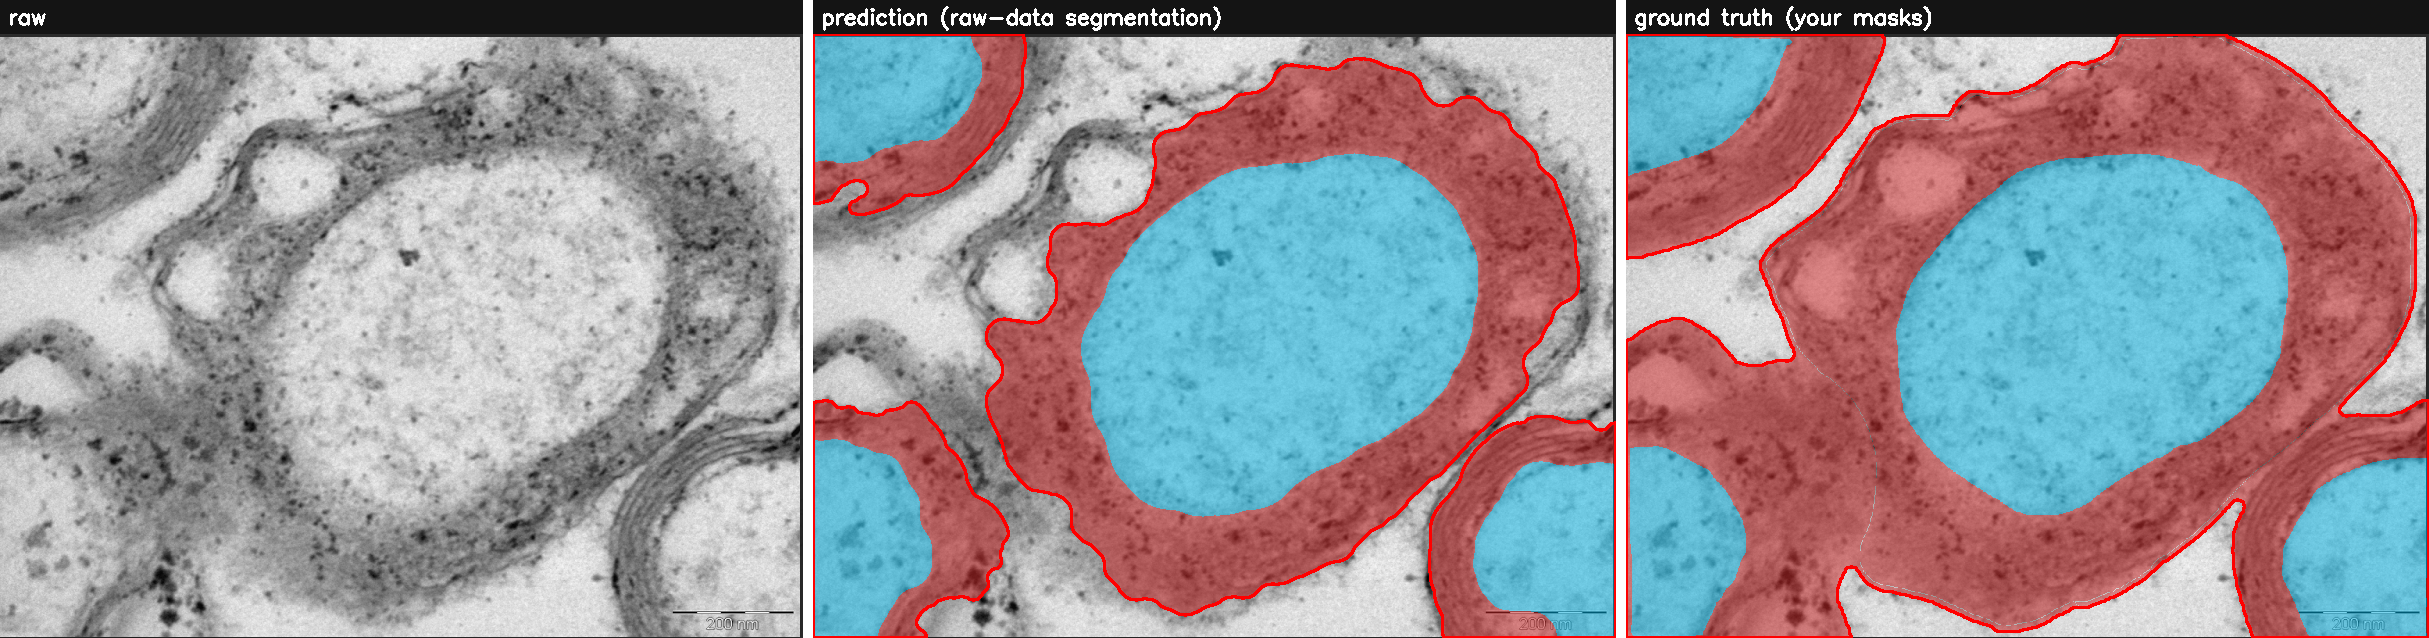
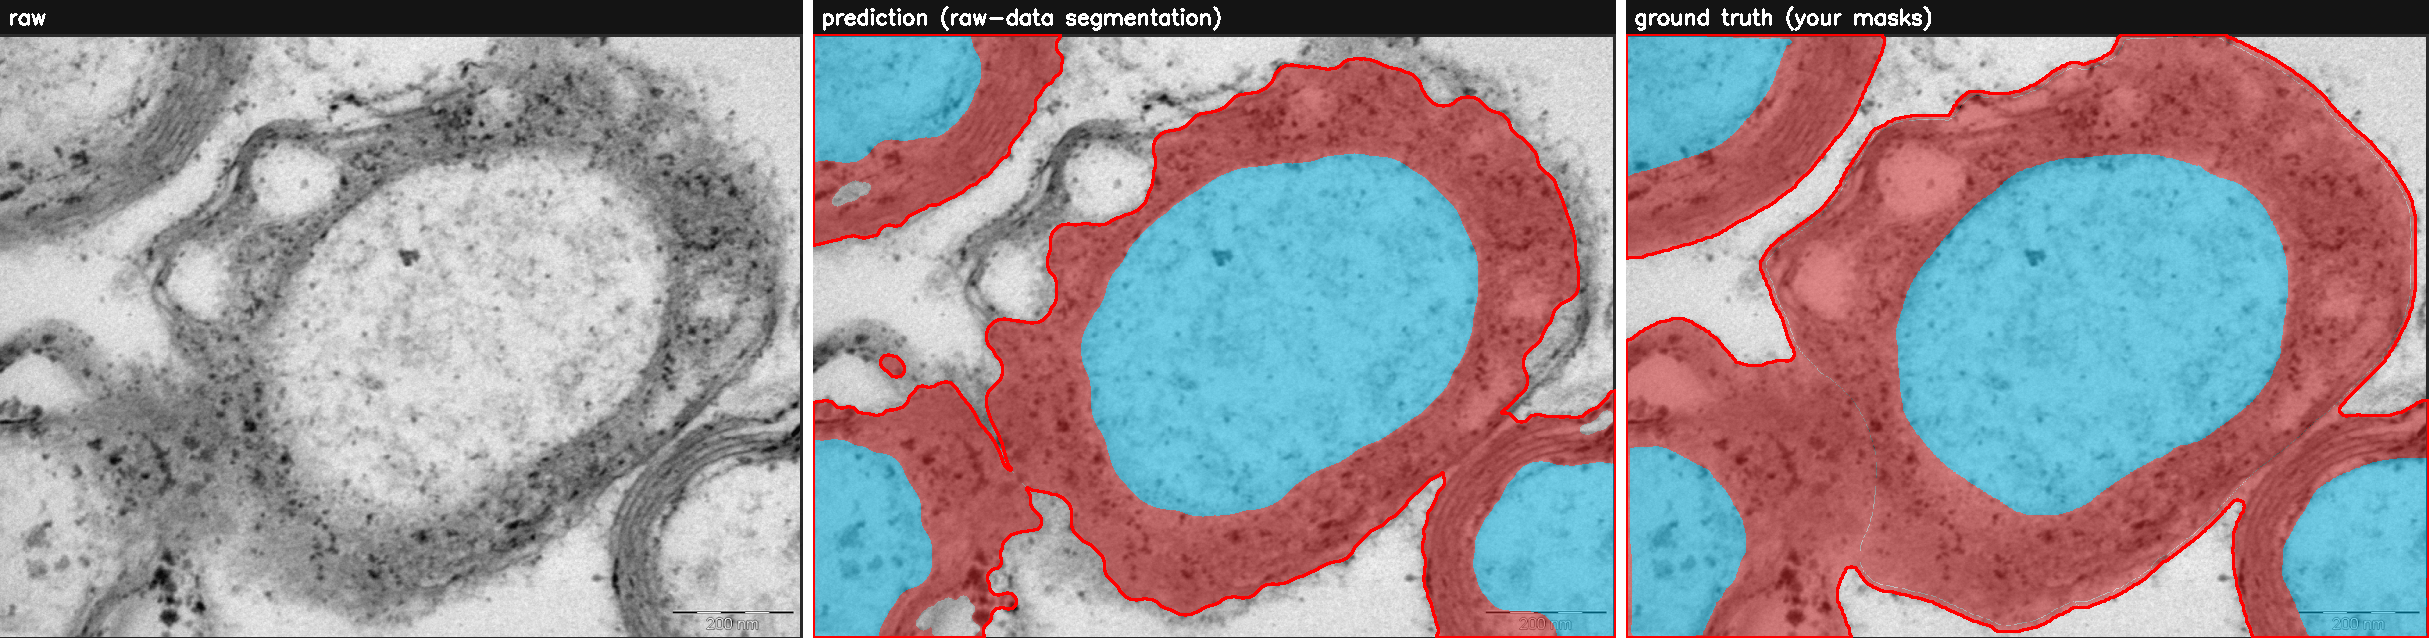
Widen small-axon myelin with an absolute band floor
Sample 1 axon #1 had myelin ~half the traced width (ratio 0.69 vs 1.55): the
radial cap myelin_band*r is too small for a small axon with proportionally thick
myelin. Add myelin_band_floor=80px: the band is max(myelin_band*r, floor), so
small axons get a wider band while large axons (already above the floor) are
untouched. Resolves the recurring small-vs-large tension with no tradeoff.

sample_01 #1 myelin/axon ratio 0.69 -> 1.15; sample_01 myelin IoU 0.58 -> 0.65,
fibre 0.78 -> 0.83. sample_02/03 unchanged. Means: myelin 0.74 -> 0.76, fibre
0.88 -> 0.90. Recall/precision still 1.0, 37 tests pass.

Also drop the sample_02 rounding-tradeoff figure (that direction was rejected).

Claude-Session: https://claude.ai/code/session_01APbuiGGpr8t768VjCngFXw

diff --git a/gratio/pipeline.py b/gratio/pipeline.py
@@ -68,7 +68,9 @@ DEFAULTS = dict(
     min_solidity=0.90,        # reject corner pockets / leaky bodies (real axons are convex)
     bright_margin=-25,        # axon-body mean intensity must exceed median(image)+margin (mild floor)
     touch_dilate=5,           # myelin must touch the axon within this many px
-    myelin_band=0.5,          # myelin thickness cap as a fraction of axon radius
+    myelin_band=0.5,          # myelin thickness cap as a fraction of axon radius...
+    myelin_band_floor=80,     # ...but at least this many px, so small axons with proportionally thick
+                              # myelin are not clipped (large axons already exceed it; scale-calibrated)
     smooth_frac=0.15,         # border smoothing kernel as a fraction of axon radius
     smooth_max_px=21,         # ...capped to this absolute size (avoid distorting big axons)
     axon_otsu_bias=10,        # the axon border is refined per fibre: Otsu-split the fibre into bright
@@ -280,8 +282,8 @@ def segment(gray: np.ndarray, **overrides) -> dict:
     r_by = np.zeros(len(cands) + 1)
     for a in cands:
         r_by[a['id']] = a['r']
-    assigned = np.where(myelin_keep & (nearest > 0) & (dist <= P['myelin_band'] * r_by[nearest]),
-                        nearest, 0)
+    band_cap = np.maximum(P['myelin_band'] * r_by[nearest], P['myelin_band_floor'])
+    assigned = np.where(myelin_keep & (nearest > 0) & (dist <= band_cap), nearest, 0)
 
     axon_mask = np.zeros((H, W), np.int32)
     myelin_mask = np.zeros((H, W), np.int32)

diff --git a/docs/reference/user_masks.md b/docs/reference/user_masks.md
@@ -125,10 +125,10 @@ no false positives**, then maximise class overlap.
 
 | sample     | axon IoU | myelin IoU | fibre IoU | detect P / R |
 |------------|---------:|-----------:|----------:|:------------:|
-| sample_01  | 0.91 | 0.58 | 0.78 | 1.00 / 1.00 |
+| sample_01  | 0.91 | 0.65 | 0.83 | 1.00 / 1.00 |
 | sample_02  | 0.96 | 0.81 | 0.91 | 1.00 / 1.00 |
 | sample_03  | 0.92 | 0.82 | 0.96 | 1.00 / 1.00 |
-| **mean**   | **0.93** | **0.74** | **0.88** | **1.00 / 1.00** |
+| **mean**   | **0.93** | **0.76** | **0.90** | **1.00 / 1.00** |
 
 (baseline before tuning was axon 0.74 / myelin 0.51 / fibre 0.80, recall 0.80.)
 
